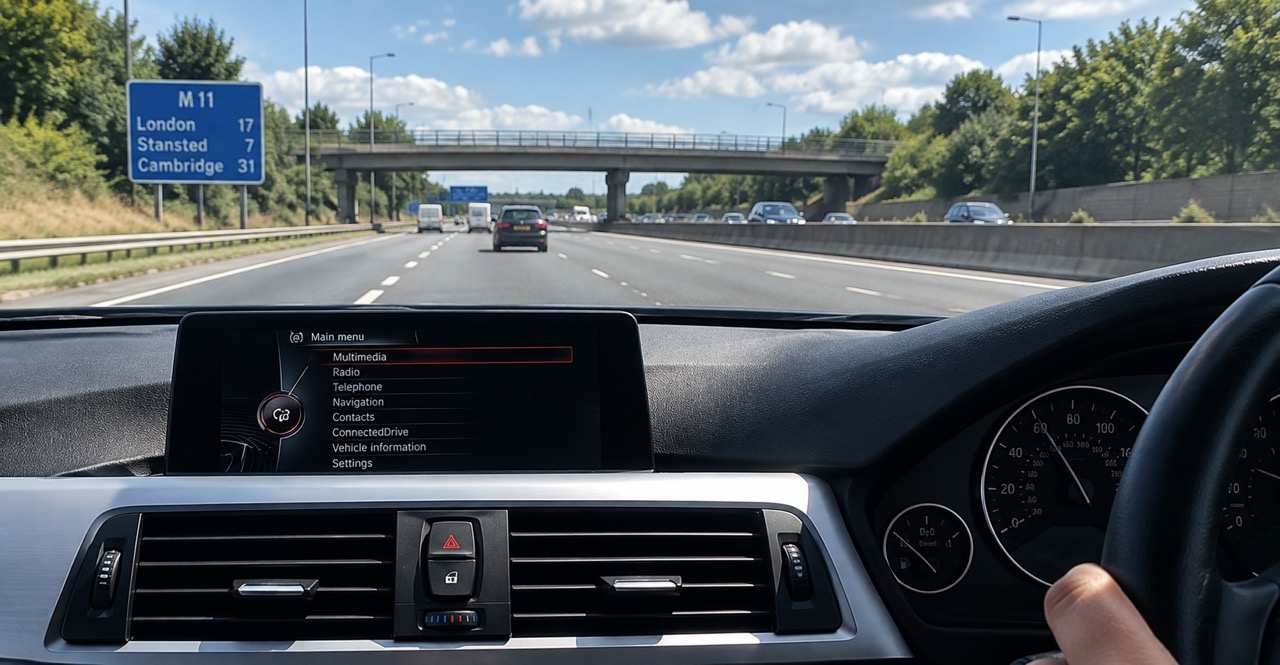
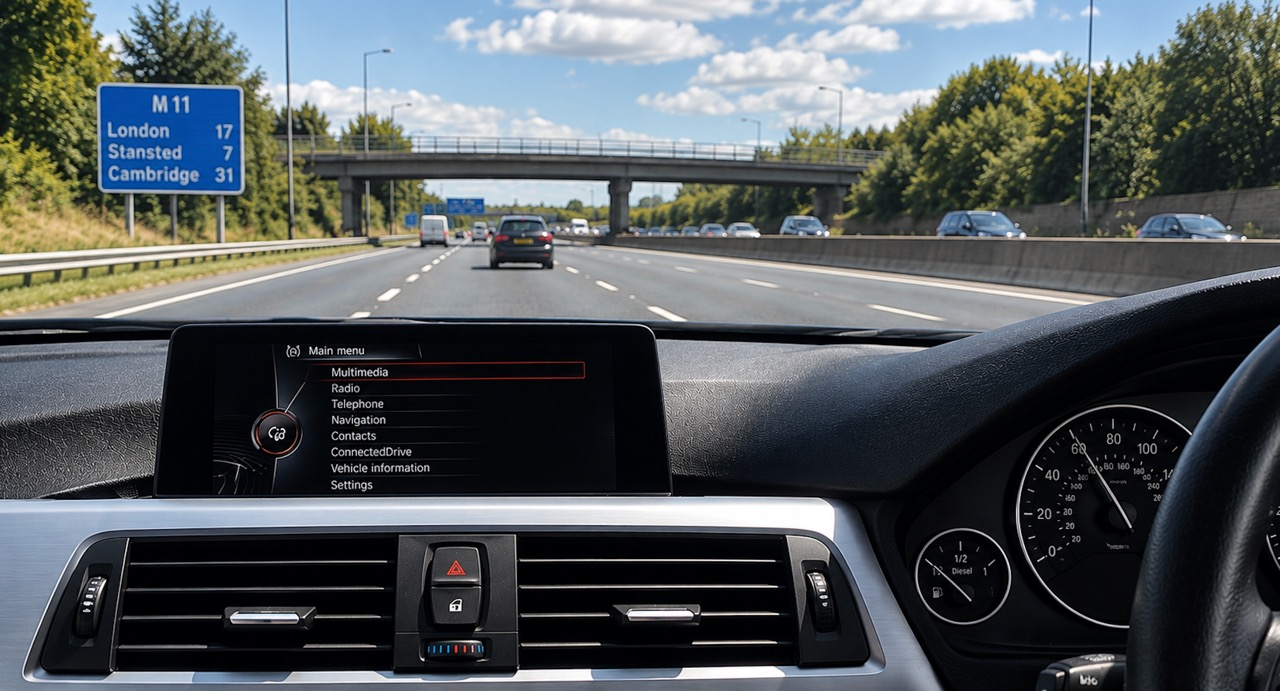
Update SPL-2026-000048 title and photo (#49)

diff --git a/measurements/2026/09/SPL-2026-000048/README.md b/measurements/2026/09/SPL-2026-000048/README.md
@@ -1,6 +1,6 @@
 # SPL-2026-000048
 
-Measure 019
+Same Car, Same Speed — A 10 dB Difference
 
 - Completed: 2026-09-28T11:08:38Z
 - LAeq: 65.98314393632452 dBA
